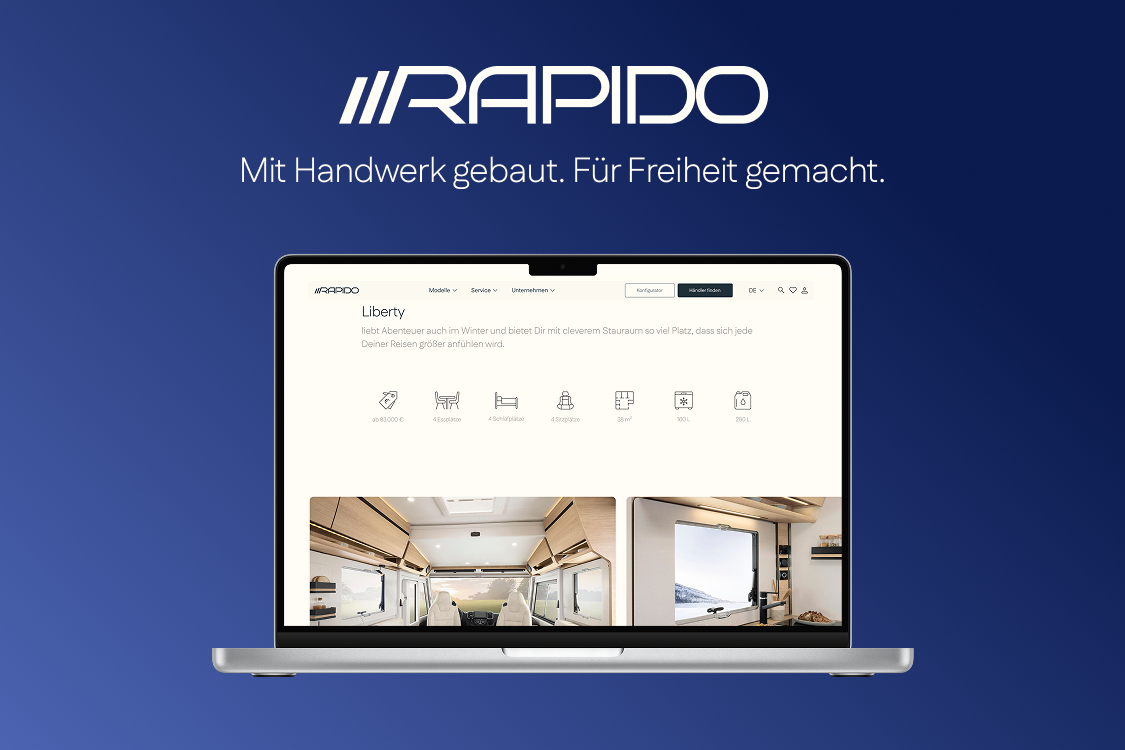
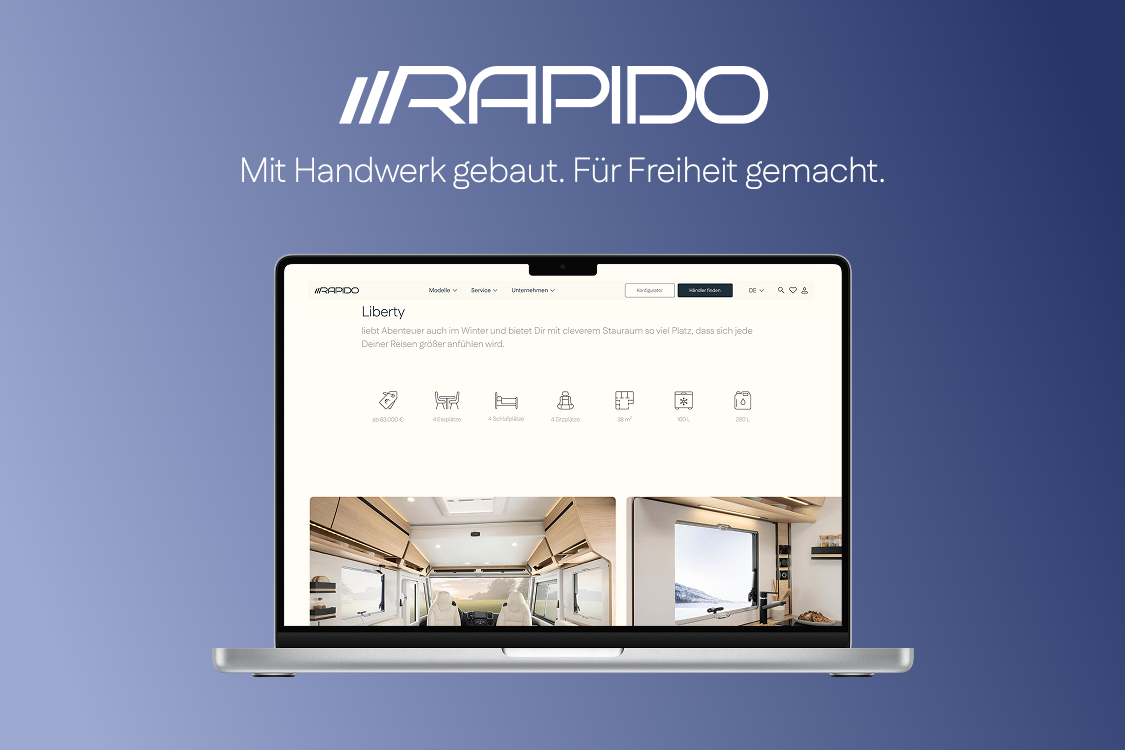
images and project cards changed, bg established, orientation corrected

diff --git a/Portfolio-Code/projekte.html b/Portfolio-Code/projekte.html
@@ -69,7 +69,7 @@
                  data-href="Project Pages/projekt1.html"
                  aria-label="Rapido Reisemobile – Redesign">
           <div class="project-card__img-wrap">
-            <img src="assets/projects/projekt1/preview.jpg"
+            <img src="../images-projects/project-1.0.png"
                  alt="Rapido Reisemobile Redesign"
                  class="project-card__img" loading="lazy"
                  onerror="this.style.display='none'" />
@@ -83,7 +83,7 @@
                  data-href="Project Pages/projekt2.html"
                  aria-label="Tea-Rex – Innovative Design">
           <div class="project-card__img-wrap">
-            <img src="assets/projects/projekt2/preview.jpg"
+            <img src="../images-projects/project-2.0.png"
                  alt="Tea-Rex Innovative Design"
                  class="project-card__img" loading="lazy"
                  onerror="this.style.display='none'" />
@@ -125,7 +125,7 @@
                  data-href="Project Pages/projekt5.html"
                  aria-label="GrippR – Controller Interface Design">
           <div class="project-card__img-wrap">
-            <img src="assets/projects/projekt5/preview.jpg"
+            <img src="../images-projects/project-5.0.png"
                  alt="GrippR Controller Interface Design"
                  class="project-card__img" loading="lazy"
                  onerror="this.style.display='none'" />
@@ -153,7 +153,7 @@
                  data-href="Project Pages/projekt7.html"
                  aria-label="Pup the Bub – Interactive Interfaces">
           <div class="project-card__img-wrap">
-            <img src="assets/projects/projekt7/preview.jpg"
+            <img src="../images-projects/project-7.0.png"
                  alt="Pup the Bub Interactive Interfaces"
                  class="project-card__img" loading="lazy"
                  onerror="this.style.display='none'" />
@@ -167,7 +167,7 @@
                  data-href="Project Pages/projekt8.html"
                  aria-label="Who are you when no one is watching?">
           <div class="project-card__img-wrap">
-            <img src="assets/projects/projekt8/preview.jpg"
+            <img src="../images-projects/project-8.0.png"
                  alt="Who are you when no one is watching?"
                  class="project-card__img" loading="lazy"
                  onerror="this.style.display='none'" />
@@ -181,7 +181,7 @@
                  data-href="Project Pages/projekt9.html"
                  aria-label="VoLo – Brand Corporate Design">
           <div class="project-card__img-wrap">
-            <img src="assets/projects/projekt9/preview.jpg"
+            <img src="../images-projects/project-9.0.png"
                  alt="VoLo Brand Corporate Design"
                  class="project-card__img" loading="lazy"
                  onerror="this.style.display='none'" />

diff --git a/Portfolio-Code/index.html b/Portfolio-Code/index.html
@@ -88,8 +88,7 @@
                    data-href="Project Pages/projekt1.html"
                    aria-label="Rapido Reisemobile – Redesign">
             <div class="project-card__img-wrap">
-              <!-- Add your image at assets/projects/projekt1/preview.jpg -->
-              <img src="assets/projects/projekt1/preview.jpg"
+              <img src="../images-projects/project-1.0.png"
                    alt="Rapido Reisemobile Redesign"
                    class="project-card__img" loading="lazy"
                    onerror="this.style.display='none'" />
@@ -101,7 +100,7 @@
                    data-href="Project Pages/projekt2.html"
                    aria-label="Tea-Rex – Innovative Design">
             <div class="project-card__img-wrap">
-              <img src="assets/projects/projekt2/preview.jpg"
+              <img src="../images-projects/project-2.0.png"
                    alt="Tea-Rex Innovative Design"
                    class="project-card__img" loading="lazy"
                    onerror="this.style.display='none'" />
@@ -137,7 +136,7 @@
                    data-href="Project Pages/projekt5.html"
                    aria-label="GrippR – Controller Interface Design">
             <div class="project-card__img-wrap">
-              <img src="assets/projects/projekt5/preview.jpg"
+              <img src="../images-projects/project-5.0.png"
                    alt="GrippR Controller Interface Design"
                    class="project-card__img" loading="lazy"
                    onerror="this.style.display='none'" />

diff --git a/Portfolio-Code/styles.css b/Portfolio-Code/styles.css
@@ -504,7 +504,7 @@ em {
 /* About slideshow */
 .about__slideshow {
   position: relative;
-  aspect-ratio: 5 / 4;
+  aspect-ratio: 3 / 2;
   border-radius: var(--r-lg);
   overflow: hidden;
   background: var(--bg-card);
@@ -597,7 +597,8 @@ em {
 
 /* ── 09. SKILLS SECTION ────────────────────────────────────── */
 .skills {
-  background: linear-gradient(140deg, var(--bg-skills), var(--bg-skills-end));
+  background: url('../images-home/Meine-Skills-bg.png') center center / cover no-repeat;
+  min-height: 600px;
   position: relative;
   overflow: hidden;
 }
@@ -647,7 +648,8 @@ em {
 .skills__icons {
   display: grid;
   grid-template-columns: repeat(4, 1fr);
-  gap: var(--s3);
+  row-gap: 80px;
+  column-gap: var(--s3);
   justify-items: center;
 }
 
